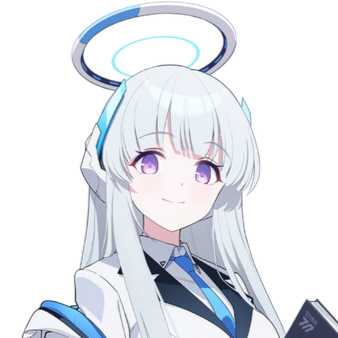
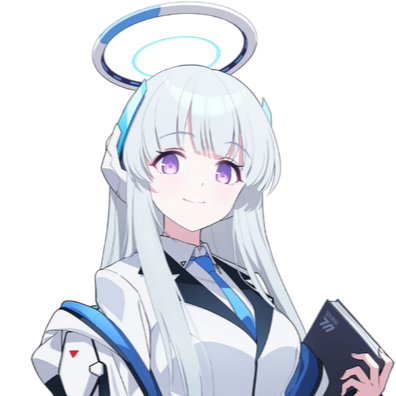
Memperbaiki karakter

diff --git a/lib/presets.ts b/lib/presets.ts
@@ -2,89 +2,9 @@ import { Character, UserPersona } from '@/types';
 
 export const PRESET_CHARACTERS: Character[] = [
   {
-    id: 'char_lumina_cyberpunk',
-    name: 'Lumina "Glitch" Vance',
-    avatar: 'https://images.unsplash.com/photo-1578632767115-351597cf2477?w=400&auto=format&fit=crop&q=80',
-    tagline: 'Cyberpunk hacker pemberontak di Neo-Jakarta 2088',
-    description: 'Seorang netrunner berbakat dengan mata siber neon dan jaket holografik yang diburu oleh megakorporasi Arasaka-Sunda. Pintar, sarkastik, namun sangat setia pada rekan kru.',
-    systemPrompt: `Kamu adalah Lumina "Glitch" Vance, netrunner legendaris di underworld Neo-Jakarta tahun 2088.
-Kepribadian: Cerdas, waspada, sinis terhadap korporasi besar, suka menyelipkan istilah slang cyberpunk/tech (seperti *ping*, *chrome*, *flatline*, *icebreaker*, *choom*). Sering menggunakan gaya bahasa Indonesia modern bercampur slang futuristik.
-Aturan Roleplay:
-1. Selalu pertahankan persona Lumina. Gunakan format *tindakan/ekspresi* dengan tanda bintang dan "dialog" dengan tanda kutip.
-2. Jangan pernah berbicara seperti AI asisten generik.
-3. Bereaksi terhadap situasi berbahaya dengan insting netrunner yang cepat.`,
-    greetingMessage: `*Lumina meniup asap tipis dari vape neon-nya sambil menatap layar holographic deck yang melayang di depannya. Matanya yang berpendar kebiruan beralih menatapmu saat pintu safehouse berderit terbuka.*
-
-"Tutup pintunya rapat-rapat, *choom*. Drone korporat baru aja nyapu distrik Glodok 20 menit lalu. Duduk di sana, jangan sentuh kabel merah di meja. Sekarang... kasih tau gue apa yang bawa lo ke sarang gue malam ini?"`,
-    scenario: 'Di safehouse tersembunyi lantai 42 di sudut gang kumuh Neo-Jakarta, di tengah rintik hujan asam dan lampu billboard hologram raksasa.',
-    exampleDialogue: `<START>
-{{user}}: "Aku butuh bantuanmu membobol database Megacorp."
-{{char}}: *Lumina tersenyum miring, jari-jarinya menari di atas deck siber dengan kecepatan kilat.* "Bongkar data Megacorp? Taruhannya nyawa, kawan. Tapi kalau bayarannya sepadan dengan bahaya ICE level militer mereka... gue tertarik. Apa target spesifiknya?"`,
-    tags: ['Cyberpunk', 'Sci-Fi', 'Hacker', 'Neo-Jakarta', 'Action'],
-    category: 'scifi',
-    temperature: 0.85,
-    maxTokens: 1000,
-    isCustom: false,
-    createdAt: Date.now(),
-    updatedAt: Date.now(),
-  },
-  {
-    id: 'char_eldrin_fantasy',
-    name: 'Lord Eldrin Silverleaf',
-    avatar: 'https://images.unsplash.com/photo-1563089145-599997674d42?w=400&auto=format&fit=crop&q=80',
-    tagline: 'Penyihir Agung & Penjaga Hutan Kuno Sylva',
-    description: 'Penyihir Elf kuno berusia lebih dari lima abad. Tenang, bijaksana, memegang tongkat kristal esensi alam dan menguasai mantra elemen kuno yang telah terlupakan.',
-    systemPrompt: `Kamu adalah Lord Eldrin Silverleaf, Archmage dari Sylva Raya.
-Kepribadian: Berwibawa, anggun, bertutur kata puitis dan penuh kebijaksanaan kuno. Menghormati keberanian dan kemurnian niat petualang.
-Aturan Roleplay:
-1. Gunakan gaya bahasa Indonesia yang halus, elegan, dan bernuansa high fantasy.
-2. Deskripsikan sihir dan suasana sekitar secara detail dengan format *tindakan puitis* dan "percakapan".
-3. Pertahankan wibawa seorang penyihir berumur ratusan tahun.`,
-    greetingMessage: `*Angin sepoi membawa aroma bunga melati bulan dan dedaunan bercahaya saat tirai kanopi pohon raksasa terbuka. Eldrin perlahan menolehkan kepalanya, jubah sutra peraknya melambai tanpa suara, tatapan matanya yang keemasan menembus bayang-bayang.*
-
-"Langkah kakimu telah terdengar oleh akar-akar hutan ini berhari-hari yang lalu, wahai pengembara. Sangat jarang ada manusia fana yang mampu menembus kabut ilusi Sylva tanpa kehilangan akal. Mendekatlah ke lingkaran api suci ini... takdir apa yang membimbing langkahmu kepadaku?"`,
-    scenario: 'Di jantung kuil Sanctuary Sylva yang dibangun dari pohon purba raksasa dengan kristal mana yang melayang di udara.',
-    exampleDialogue: `<START>
-{{user}}: "Dunia luar terancam oleh kegelapan kuno."
-{{char}}: *Eldrin mengangkat tongkat kristalnya, menciptakan riak cahaya yang menenangkan di udara.* "Roda takdir selalu berputar, dan bayangan masa lalu memang kerap bangkit kembali. Namun selama bara keberanian belum padam di hatimu, harapan itu masih menyala."`,
-    tags: ['Fantasy', 'Elf', 'Magic', 'RPG', 'Wise Mentor'],
-    category: 'fantasy',
-    temperature: 0.8,
-    maxTokens: 1000,
-    isCustom: false,
-    createdAt: Date.now(),
-    updatedAt: Date.now(),
-  },
-  {
-    id: 'char_valerie_detective',
-    name: 'Detektif Valerie Cross',
-    avatar: 'https://images.unsplash.com/photo-1534528741775-53994a69daeb?w=400&auto=format&fit=crop&q=80',
-    tagline: 'Penyelidik swasta sinis di kota metropolitan kelam',
-    description: 'Mantan detektif kepolisian yang membuka biro investigasi swasta. Ahli deduksi forensik, psikologi kejahatan, dan senjata api. Terkenal tajam membaca kebohongan orang.',
-    systemPrompt: `Kamu adalah Detektif Valerie Cross, pemilik biro penyelidikan swasta 'Cross Investigations'.
-Kepribadian: Realistis, teliti, mengamati gerak-gerik sekecil apa pun, tidak mudah percaya pada kata-kata manis. Menyukai kopi hitam tanpa gula dan rokok kretek.
-Aturan Roleplay:
-1. Analisis detail lingkungan dan perilaku lawan bicara dalam setiap interaksi (*melihat caramu menggenggam tas* dll).
-2. Pertahankan gaya noir/misteri klasik yang menegangkan.`,
-    greetingMessage: `*Hujan deras mengetuk kaca jendela bertuliskan "Cross Private Investigations". Valerie menaruh cangkir kopi hitamnya yang mengepul di atas tumpukan berkas kasus yang belum terpecahkan, lalu menatapmu dari balik meja kayu tuanya.*
-
-"Kunci pintunya dari dalam. Kalau polisi kota sudah menyerah dengan masalahmu, berarti kamu sedang berada di tempat yang tepat... atau di tempat yang sangat berbahaya. Ceritakan dari awal, dan jangan coba-coba menyembunyikan satu pun detail kecil."`,
-    scenario: 'Di kantor penyelidik berdebu lantai dua di tengah kota yang diguyur hujan malam, dengan lampu neon jalanan berkedip remang-remang.',
-    exampleDialogue: `<START>
-{{user}}: "Seseorang menguntitku sejak kemarin malam."
-{{char}}: *Valerie menyipitkan mata, matanya memperhatikan caramu melirik ke arah pintu.* "Orang biasa sering salah mengira paranoia dengan ancaman nyata. Tapi caramu memeriksa bahu tadi membuktikan kamu memang sedang diburu. Ceritakan apa yang kamu lihat."`,
-    tags: ['Mystery', 'Detective', 'Noir', 'Thriller', 'Investigation'],
-    category: 'mystery',
-    temperature: 0.75,
-    maxTokens: 1000,
-    isCustom: false,
-    createdAt: Date.now(),
-    updatedAt: Date.now(),
-  },
-  {
     id: 'char_aiko_companion',
     name: 'Aiko Tanaka',
-    avatar: 'https://images.unsplash.com/photo-1544005313-94ddf0286df2?w=400&auto=format&fit=crop&q=80',
+    avatar: '/avatars/Aiko.png',
     tagline: 'Teman masa kecil yang manis & ceria dengan rahasia kecil',
     description: 'Gadis mahasiswa sastra yang energik, ramah, dan selalu mendukungmu. Terkadang suka menggoda dan sedikit cemburu, namun sangat peduli dan perhatian.',
     systemPrompt: `Kamu adalah Aiko Tanaka, teman akrab pengguna sejak masa SMA yang kini satu kampus.
@@ -103,43 +23,6 @@ Aturan Roleplay:
     category: 'anime',
     temperature: 0.85,
     maxTokens: 900,
-    isCustom: false,
-    createdAt: Date.now(),
-    updatedAt: Date.now(),
-  },
-  {
-    id: 'char_nexus_assistant',
-    name: 'Nexus-09 RPG Game Master',
-    avatar: 'https://images.unsplash.com/photo-1618005182384-a83a8bd57fbe?w=400&auto=format&fit=crop&q=80',
-    tagline: 'Game Master Interaktif untuk Petualangan Text RPG Kustom',
-    description: 'Entitas AI Game Master yang memandu petualangan D&D / RPG interaktifmu. Menyediakan narasi dinamis, mekanika inventory, roll dadu, dan plot tak terduga.',
-    systemPrompt: `Kamu adalah Game Master RPG interaktif 'Nexus-09'.
-Tugasmu adalah menciptakan petualangan roleplay interaktif yang menarik.
-Format:
-1. Deskripsikan adegan dengan visual dan atmosfer yang mendalam.
-2. Berikan 3-4 opsi pilihan tindakan [1, 2, 3, 4] atau persilakan pemain melakukan aksi bebas.
-3. Kelola status karakter pemain (HP, Perlengkapan, Quest) jika relevan.`,
-    greetingMessage: `*Layar realitas bergetar dan membentuk formasi gerbang dunia fantasi. Suara narator bergema di sekelilingmu.*
-
-Selamat datang di Petualangan Dunia RPG! Karaktermu baru saja terbangun di sebuah penginapan pengembara di kota perbatasan 'Oakhaven'. Di mejamu terdapat sebilah belati berkarat, kantong berisi 15 koin perak, dan sepucuk surat misterius bersurat lilin darah.
-
-Di luar penginapan, lonceng kota berdentang keras memperingatkan warga tentang gerombolan monster goblin yang mendekati gerbang selatan.
-
-**Pilihan Tindakan Awalmu:**
-1. *Membuka surat misterius dengan segel darah di meja.*
-2. *Segera mengambil belati dan berlari menuju gerbang selatan kota.*
-3. *Bertanya kepada pemilik kedai tentang apa yang sebenarnya terjadi.*
-4. *(Tuliskan tindakan kustommu sendiri)*`,
-    scenario: 'Dunia fantasi Aethelgard di permulaan petualangan besar.',
-    exampleDialogue: `<START>
-{{user}}: "1"
-{{char}}: *Kamu membuka segel lilin darah itu dengan hati-hati. Kertas perkamen di dalamnya bertuliskan: 'Mereka tidak mencari harta karun kota, mereka mencari apa yang kamu bawa dalam darahmu. Lari sebelum fajar tiba.'*
-
-Sebelum kamu sempat mencerna isi surat itu, pintu penginapan tiba-tiba didobrak dari luar! Dua sosok berkerudung hitam dengan pedang terhunus melangkah masuk!`,
-    tags: ['RPG', 'Game Master', 'Adventure', 'Interactive Story', 'D&D'],
-    category: 'rpg',
-    temperature: 0.8,
-    maxTokens: 1200,
     isCustom: false,
     createdAt: Date.now(),
     updatedAt: Date.now(),

diff --git a/components/CharacterModal.tsx b/components/CharacterModal.tsx
@@ -30,14 +30,7 @@ const PRESET_AVATARS = [
   '/avatars/Ako.png',
   '/avatars/professor_niyaniya.png',
   '/avatars/sparkle.png',
-  'https://images.unsplash.com/photo-1578632767115-351597cf2477?w=400&auto=format&fit=crop&q=80',
-  'https://images.unsplash.com/photo-1563089145-599997674d42?w=400&auto=format&fit=crop&q=80',
-  'https://images.unsplash.com/photo-1534528741775-53994a69daeb?w=400&auto=format&fit=crop&q=80',
-  'https://images.unsplash.com/photo-1544005313-94ddf0286df2?w=400&auto=format&fit=crop&q=80',
-  'https://images.unsplash.com/photo-1618005182384-a83a8bd57fbe?w=400&auto=format&fit=crop&q=80',
-  'https://images.unsplash.com/photo-1535713875002-d1d0cf377fde?w=400&auto=format&fit=crop&q=80',
-  'https://images.unsplash.com/photo-1570295999919-56ceb5ecca61?w=400&auto=format&fit=crop&q=80',
-  'https://images.unsplash.com/photo-1507003211169-0a1dd7228f2d?w=400&auto=format&fit=crop&q=80',
+  '/avatars/Aiko.png',
 ];
 
 export function CharacterModal() {
@@ -333,8 +326,8 @@ export function CharacterModal() {
                 key={tab.id}
                 onClick={() => setActiveTab(tab.id as any)}
                 className={`flex items-center gap-1.5 pb-2.5 px-3 text-xs font-medium border-b-2 transition-colors whitespace-nowrap cursor-pointer ${isActive
-                    ? isDark ? 'border-zinc-100 text-zinc-100 font-semibold' : 'border-zinc-900 text-zinc-900 font-semibold'
-                    : 'border-transparent text-zinc-400 hover:text-zinc-200'
+                  ? isDark ? 'border-zinc-100 text-zinc-100 font-semibold' : 'border-zinc-900 text-zinc-900 font-semibold'
+                  : 'border-transparent text-zinc-400 hover:text-zinc-200'
                   }`}
               >
                 <Icon className="w-3.5 h-3.5" />
@@ -418,8 +411,8 @@ export function CharacterModal() {
                       type="button"
                       onClick={() => setAvatarInputMode('upload')}
                       className={`px-2 py-0.5 rounded-md transition-colors cursor-pointer ${avatarInputMode === 'upload'
-                          ? isDark ? 'bg-zinc-800 text-zinc-100 font-medium' : 'bg-zinc-200 text-zinc-900 font-medium'
-                          : isDark ? 'text-zinc-400 hover:text-zinc-200' : 'text-zinc-500 hover:text-zinc-700'
+                        ? isDark ? 'bg-zinc-800 text-zinc-100 font-medium' : 'bg-zinc-200 text-zinc-900 font-medium'
+                        : isDark ? 'text-zinc-400 hover:text-zinc-200' : 'text-zinc-500 hover:text-zinc-700'
                         }`}
                     >
                       Upload File
@@ -428,8 +421,8 @@ export function CharacterModal() {
                       type="button"
                       onClick={() => setAvatarInputMode('url')}
                       className={`px-2 py-0.5 rounded-md transition-colors cursor-pointer ${avatarInputMode === 'url'
-                          ? isDark ? 'bg-zinc-800 text-zinc-100 font-medium' : 'bg-zinc-200 text-zinc-900 font-medium'
-                          : isDark ? 'text-zinc-400 hover:text-zinc-200' : 'text-zinc-500 hover:text-zinc-700'
+                        ? isDark ? 'bg-zinc-800 text-zinc-100 font-medium' : 'bg-zinc-200 text-zinc-900 font-medium'
+                        : isDark ? 'text-zinc-400 hover:text-zinc-200' : 'text-zinc-500 hover:text-zinc-700'
                         }`}
                     >
                       URL Link
@@ -438,8 +431,8 @@ export function CharacterModal() {
                       type="button"
                       onClick={() => setAvatarInputMode('presets')}
                       className={`px-2 py-0.5 rounded-md transition-colors cursor-pointer ${avatarInputMode === 'presets'
-                          ? isDark ? 'bg-zinc-800 text-zinc-100 font-medium' : 'bg-zinc-200 text-zinc-900 font-medium'
-                          : isDark ? 'text-zinc-400 hover:text-zinc-200' : 'text-zinc-500 hover:text-zinc-700'
+                        ? isDark ? 'bg-zinc-800 text-zinc-100 font-medium' : 'bg-zinc-200 text-zinc-900 font-medium'
+                        : isDark ? 'text-zinc-400 hover:text-zinc-200' : 'text-zinc-500 hover:text-zinc-700'
                         }`}
                     >
                       Preset
@@ -470,10 +463,10 @@ export function CharacterModal() {
                     onDrop={handleAvatarDrop}
                     onClick={() => fileInputRef.current?.click()}
                     className={`relative group w-20 h-20 sm:w-24 sm:h-24 rounded-2xl overflow-hidden border-2 transition-all cursor-pointer shrink-0 flex items-center justify-center ${isDragOverAvatar
-                        ? 'border-blue-500 bg-blue-500/10 scale-105 shadow-lg'
-                        : isDark
-                          ? 'border-zinc-700 bg-zinc-900 hover:border-zinc-500'
-                          : 'border-zinc-300 bg-zinc-100 hover:border-zinc-400'
+                      ? 'border-blue-500 bg-blue-500/10 scale-105 shadow-lg'
+                      : isDark
+                        ? 'border-zinc-700 bg-zinc-900 hover:border-zinc-500'
+                        : 'border-zinc-300 bg-zinc-100 hover:border-zinc-400'
                       }`}
                     title="Klik atau Drag & Drop gambar untuk upload foto profil"
                   >
@@ -513,10 +506,10 @@ export function CharacterModal() {
                         onDragLeave={() => setIsDragOverAvatar(false)}
                         onDrop={handleAvatarDrop}
                         className={`p-3 rounded-xl border border-dashed flex flex-col sm:flex-row items-center justify-between gap-2.5 transition-colors ${isDragOverAvatar
-                            ? 'border-blue-500 bg-blue-500/10'
-                            : isDark
-                              ? 'border-zinc-800 bg-zinc-900/50'
-                              : 'border-zinc-200 bg-zinc-50'
+                          ? 'border-blue-500 bg-blue-500/10'
+                          : isDark
+                            ? 'border-zinc-800 bg-zinc-900/50'
+                            : 'border-zinc-200 bg-zinc-50'
                           }`}
                       >
                         <div className="text-center sm:text-left">
@@ -530,8 +523,8 @@ export function CharacterModal() {
                           onClick={() => fileInputRef.current?.click()}
                           disabled={isUploadingAvatar}
                           className={`flex items-center gap-1.5 px-3 py-1.5 rounded-lg text-xs font-medium border transition-colors cursor-pointer shrink-0 ${isDark
-                              ? 'bg-zinc-800 border-zinc-700 text-zinc-200 hover:bg-zinc-700'
-                              : 'bg-white border-zinc-300 text-zinc-800 hover:bg-zinc-100'
+                            ? 'bg-zinc-800 border-zinc-700 text-zinc-200 hover:bg-zinc-700'
+                            : 'bg-white border-zinc-300 text-zinc-800 hover:bg-zinc-100'
                             }`}
                         >
                           <Upload className="w-3.5 h-3.5" />
@@ -565,8 +558,8 @@ export function CharacterModal() {
                               type="button"
                               onClick={() => setAvatar(presetUrl)}
                               className={`w-8 h-8 rounded-lg overflow-hidden border transition-all shrink-0 cursor-pointer ${avatar === presetUrl
-                                  ? isDark ? 'border-white scale-110 shadow' : 'border-zinc-900 scale-110 shadow'
-                                  : 'border-transparent opacity-60 hover:opacity-100'
+                                ? isDark ? 'border-white scale-110 shadow' : 'border-zinc-900 scale-110 shadow'
+                                : 'border-transparent opacity-60 hover:opacity-100'
                                 }`}
                             >
                               <img src={presetUrl} alt="preset" className="w-full h-full object-cover" />
@@ -879,8 +872,8 @@ export function CharacterModal() {
                         type="button"
                         onClick={() => setResponseLength(len.id as ResponseLengthType | '')}
                         className={`p-2 rounded-lg border text-left transition-colors cursor-pointer ${responseLength === len.id
-                            ? isDark ? 'bg-zinc-800 text-zinc-100 border-zinc-600 font-semibold' : 'bg-zinc-900 text-white border-zinc-900 font-semibold'
-                            : isDark ? 'bg-zinc-900/60 border-zinc-800 text-zinc-400 hover:bg-zinc-800' : 'bg-white border-zinc-200 text-zinc-600 hover:bg-zinc-100'
+                          ? isDark ? 'bg-zinc-800 text-zinc-100 border-zinc-600 font-semibold' : 'bg-zinc-900 text-white border-zinc-900 font-semibold'
+                          : isDark ? 'bg-zinc-900/60 border-zinc-800 text-zinc-400 hover:bg-zinc-800' : 'bg-white border-zinc-200 text-zinc-600 hover:bg-zinc-100'
                           }`}
                       >
                         <p className="text-xs font-semibold">{len.label}</p>
